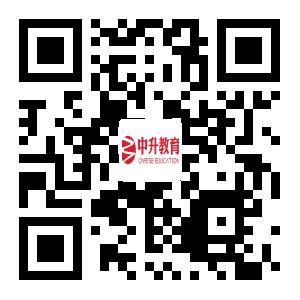
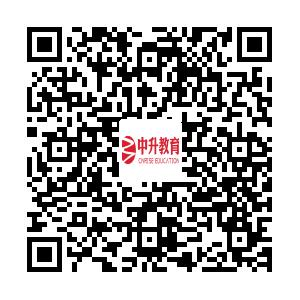
薛可第20次提交 10/28 28日合并修复版。
# Conflicts:
#	src/main/java/com/zhongsheng/education/entiy/Student.java

diff --git a/src/main/java/com/zhongsheng/education/mapper/StudentMapper.java b/src/main/java/com/zhongsheng/education/mapper/StudentMapper.java
@@ -31,9 +31,8 @@ public interface StudentMapper {
     @Update("update student set score=score+#{scope} where snum=#{snum}")
     public Integer addScore(String snum, Integer scope);
 
-
     //河南
-    @Insert("insert into student(snum,campus,schoolname,sname,sex,major,phone,classes,money,signupdate,addmoneydate,paymethod,intentionmajor,publiccours,majorcours,campusmanager,campusagent,onlinenumber,offlinenumber,job,homeaddress,idcard,birthday,nation,remarks,examinationtime,admissiontime,subject,department,grade,campusid,number,schoolid,area) values(#{snum},#{campus},#{schoolname},#{sname},#{sex},#{major},#{phone},#{classes},#{money},#{signupdate},#{addmoneydate},#{paymethod},#{intentionmajor},#{publiccours},#{majorcours},#{campusmanager},#{campusagent},#{onlinenumber},#{offlinenumber},#{job},#{homeaddress},#{idcard},#{birthday},#{nation},#{remarks},#{examinationtime},#{admissiontime},#{subject},#{department},#{grade},#{campusid},#{number},#{schoolid},#{area})")
+    @Insert("insert into student(snum,campus,schoolname,sname,sex,major,phone,classes,money,signupdate,addmoneydate,paymethod,intentionmajor,publiccours,majorcours,campusmanager,campusagent,onlinenumber,offlinenumber,job,homeaddress,idcard,birthday,nation,remarks,examinationtime,admissiontime,subject,department,grade,campusid,number,schoolid,area,jiaofeijine) values(#{snum},#{campus},#{schoolname},#{sname},#{sex},#{major},#{phone},#{classes},#{money},#{signupdate},#{addmoneydate},#{paymethod},#{intentionmajor},#{publiccours},#{majorcours},#{campusmanager},#{campusagent},#{onlinenumber},#{offlinenumber},#{job},#{homeaddress},#{idcard},#{birthday},#{nation},#{remarks},#{examinationtime},#{admissiontime},#{subject},#{department},#{grade},#{campusid},#{number},#{schoolid},#{area},#{jiaofeijine})")
     public Integer addStudentInfo(Student student);
 
     @Select("select * from area")

diff --git a/src/main/java/com/zhongsheng/education/service/impl/AliPayServiceImpl.java b/src/main/java/com/zhongsheng/education/service/impl/AliPayServiceImpl.java
@@ -9,6 +9,7 @@ import com.zhongsheng.education.entiy.Bill;
 import com.zhongsheng.education.entiy.Order;
 import com.zhongsheng.education.entiy.Student;
 import com.zhongsheng.education.pdf.PDF2IMAGE;
+import com.zhongsheng.education.pdf.QrCodeTest;
 import com.zhongsheng.education.pdf.Reader;
 import com.zhongsheng.education.service.AliPayService;
 import com.zhongsheng.education.service.BillService;
@@ -228,8 +229,7 @@ public class AliPayServiceImpl implements AliPayService {
                 //生成票据
                 logger.info("学生信息："+student.toString());
                 //生成二维码
-                String erweima = QrCodeTest.erweima(student.getSnum());
-                String s = Reader.addBill(student,student.getCampusmanager(),erweima);
+                String s = Reader.addBill(student,student.getCampusmanager());
                 //生成图片
                 String ima = PDF2IMAGE.pdf2Image(s, System.getProperty("user.dir")+"\\src\\main\\resources\\static\\pdfToImage", 300);
                 Bill bill = new Bill();

diff --git a/src/main/java/com/zhongsheng/education/controller/StudentController.java b/src/main/java/com/zhongsheng/education/controller/StudentController.java
@@ -10,6 +10,9 @@ import com.zhongsheng.education.service.*;
 import com.zhongsheng.education.util.LayuiData;
 import com.zhongsheng.education.util.MyUtil;
 import com.zhongsheng.education.util.UrlUtil;
+import org.apache.shiro.SecurityUtils;
+import org.slf4j.Logger;
+import org.slf4j.LoggerFactory;
 import org.springframework.beans.factory.annotation.Autowired;
 import org.springframework.stereotype.Controller;
 import org.springframework.ui.Model;
@@ -136,11 +139,8 @@ public class StudentController {
         student1.setBill(bill);
         student1.setRemarks(remarks);
         student1.setJiaofeijine(paymentAmount);
-        //生成二维码
-        String erweima = QrCodeTest.erweima(snum);
-
         //生成票据
-        String s = Reader.addBill(student1, user.getName(), erweima);
+        String s = Reader.addBill(student1, user.getName());
         //生成图片
         String ima = PDF2IMAGE.pdf2Image(s, UrlUtil.getUrl() + "\\src\\main\\resources\\static\\pdfToImage", 300);
         student1.getBill().setImage(ima);

diff --git a/src/main/java/com/zhongsheng/education/service/impl/StudentServiceImpl.java b/src/main/java/com/zhongsheng/education/service/impl/StudentServiceImpl.java
@@ -142,7 +142,7 @@ public class StudentServiceImpl implements StudentService {
             familyService.addFamilyInfo(student.getFamilyInfo());
             schoolService.addSchoolInfo(student.getSchoolInfo());
             log.info("=======================" + student.toString());
-            //生成票据
+            /*//生成票据
             String s = Reader.addBill(student, name);
             //生成图片
             String ima = PDF2IMAGE.pdf2Image(s, System.getProperty("user.dir") + "\\src\\main\\resources\\static\\pdfToImage", 300);
@@ -154,7 +154,7 @@ public class StudentServiceImpl implements StudentService {
             bill.setCampusid(student.getCampusid());
             bill.setSchoolid(student.getSchoolid());
             //插入票据表
-            billService.addBillInfo(bill);
+            billService.addBillInfo(bill);*/
             //插入用户表
             User user = new User();
             user.setName(student.getSname());

diff --git a/src/main/java/com/zhongsheng/education/pdf/QrCodeTest.java b/src/main/java/com/zhongsheng/education/pdf/QrCodeTest.java
@@ -6,7 +6,7 @@ public class QrCodeTest {
 
     public static String erweima(String phone){
         // 存放在二维码中的内容
-        String text = "http://localhost:8080/zhongsheng/student/stuToStudentDetails?phone="+phone;
+        String text = "http://192.168.0.191:8080/zhongsheng/student/stuToStudentDetails?phone="+phone;
         // 嵌入二维码的图片路径
         String imgPath = UrlUtil.getUrl()+"\\src\\main\\java\\com\\zhongsheng\\education\\pdf\\nei.png";
         // 生成的二维码的路径及名称

diff --git a/src/main/java/com/zhongsheng/education/config/ShiroConfig.java b/src/main/java/com/zhongsheng/education/config/ShiroConfig.java
@@ -74,6 +74,7 @@ public class ShiroConfig {
         filterChainMap.put("/js/**", "anon");
         filterChainMap.put("/swagger-*/**", "anon");
         filterChainMap.put("/swagger-ui.html/**", "anon");
+        filterChainMap.put("/student/stuToStudentDetails/**", "anon");
         // 登录 URL 放行
         filterChainMap.put("/login", "anon");
 
